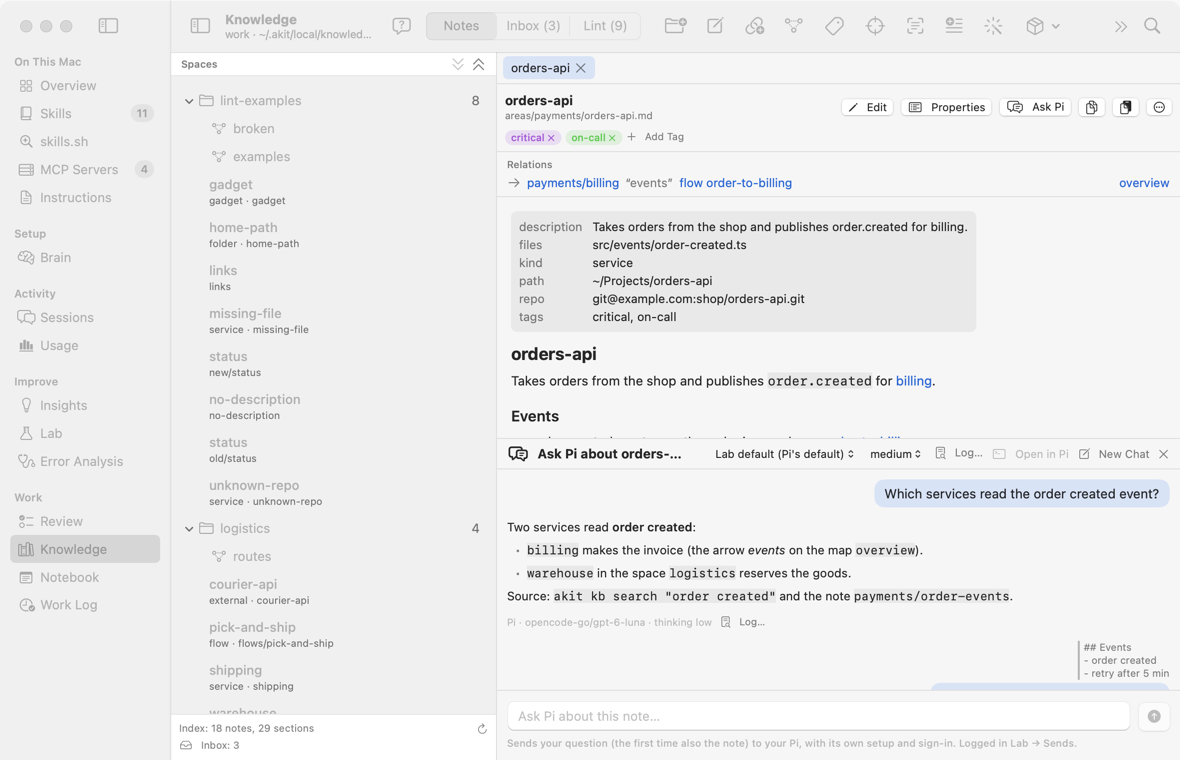
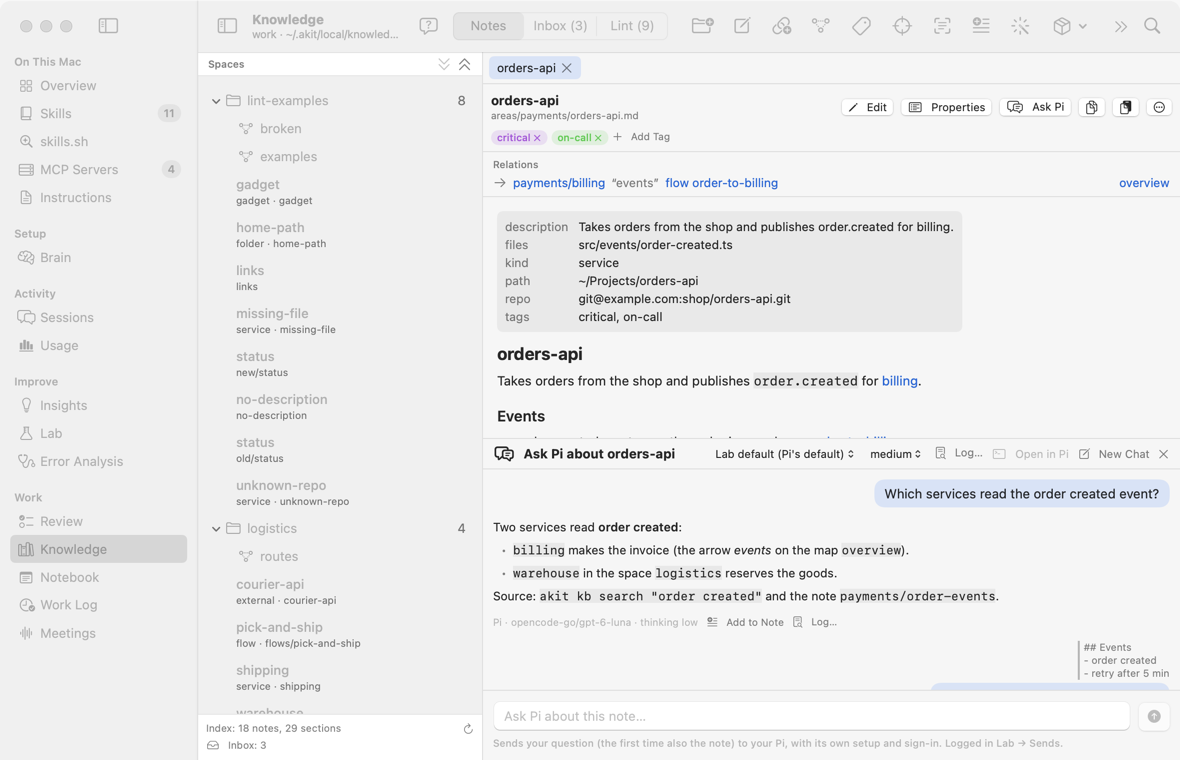
Add to Note: turn an Ask Pi answer into a note proposal
Each answer gets an Add to Note button. It sends Pi a fixed follow-up to
work that answer into the open note through akit kb propose, so the
change shows as a diff card to accept or reject.

diff --git a/AKit/Knowledge/KnowledgeAskPanel.swift b/AKit/Knowledge/KnowledgeAskPanel.swift
@@ -109,18 +109,21 @@ final class KnowledgeAskModel {
     }
 
     /// Sends the draft (and the passage) about the note: a new chat on the first question.
-    func send(noteText: String, cwd: URL) {
-        let question = draft.trimmingCharacters(in: .whitespacesAndNewlines)
+    /// `fixed` sends that question instead and leaves the draft and the passage alone (Add to Note).
+    func send(noteText: String, cwd: URL, fixed: String? = nil) {
+        let question = (fixed ?? draft).trimmingCharacters(in: .whitespacesAndNewlines)
         guard let note, !question.isEmpty, !isRunning else { return }
-        let passage = passage
+        let passage = fixed == nil ? passage : nil
         let agent = agent
         let env = HarnessEnvironment.current
         let scope = Cancellation.Scope()
         self.scope = scope
         let generation = generation
         (running, step, problem) = ((question, passage, generation), "Starting Pi…", nil)
-        draft = ""
-        self.passage = nil
+        if fixed == nil {
+            draft = ""
+            self.passage = nil
+        }
         Task {
             do {
                 let chat = try self.chat ?? KnowledgeAsk.newChat(note: note, cwd: cwd, env: env)
@@ -142,7 +145,7 @@ final class KnowledgeAskModel {
                     problem = error.localizedDescription
                     // Not sent (refused, not confirmed): the question goes back to the field. One
                     // Pi answered but AKit couldn't save stays out of it.
-                    if (error as? KnowledgeAsk.Failure)?.sent != true {
+                    if fixed == nil, (error as? KnowledgeAsk.Failure)?.sent != true {
                         if draft.isEmpty { draft = question }
                         if self.passage == nil { self.passage = passage }
                     }
@@ -463,6 +466,17 @@ struct KnowledgeAskPanel: View {
             Text(["Pi", entry.model ?? (entry.thinking != nil ? "Pi's default model" : "model not recorded"), entry.thinking.map { "thinking \($0)" }]
                     .compactMap(\.self).joined(separator: " · "))
                 .font(.caption).foregroundStyle(.tertiary)
+            if entry.answer?.isEmpty == false, let note = ask.note {
+                Button("Add to Note", systemImage: "text.badge.plus") {
+                    guard let cwd = model.askWorkingFolder() else { return }
+                    ask.send(noteText: model.text, cwd: cwd, fixed: KnowledgeAsk.addToNoteQuestion(entry, note: note))
+                }
+                .buttonStyle(.borderless)
+                .controlSize(.small)
+                .font(.caption)
+                .disabled(ask.isAskingHere || ask.isRunning)
+                .help("Pi works this answer into \(note.id) as a proposal: you see the diff here and Accept or Reject it")
+            }
             Button("Log…", systemImage: "doc.text.magnifyingglass") { logRequest = LogRequest(entry: entry.id) }
                 .buttonStyle(.borderless)
                 .controlSize(.small)

diff --git a/AKitCore/Sources/AKitLab/KnowledgeAsk.swift b/AKitCore/Sources/AKitLab/KnowledgeAsk.swift
@@ -240,6 +240,20 @@ public enum KnowledgeAsk {
         return text + "\n\nMy question: \(question)"
     }
 
+    /// The question of **Add to Note** under an answer: Pi works what that answer said into the
+    /// note as a proposal (K36). Pi has the answer in its thread through the fork; the start of
+    /// it is quoted so Pi finds the right one.
+    public static func addToNoteQuestion(_ entry: Entry, note: Note) -> String {
+        let answer = (entry.answer ?? "").trimmingCharacters(in: .whitespacesAndNewlines)
+        let start = answer.count > 160 ? String(answer.prefix(160)) + "…" : answer
+        return """
+            Add what your answer \(entry.id) said to the note \(note.id) ("\(start.replacingOccurrences(of: "\n", with: " "))"). \
+            Fit the new facts into the note's sections where they belong, in the note's own style and language: \
+            no copy of the answer, no chat words, nothing the note already says. Propose it with akit kb propose --note \(note.id) \
+            (only the changed ## sections), then say in one line what you proposed.
+            """
+    }
+
     /// The session file the next question forks: the last good answer's; nil for the first.
     /// Throws when that session file is gone.
     static func fork(_ chat: Chat, entries: [Entry]) throws(Failure) -> URL? {

diff --git a/AKitCore/Tests/AKitLabTests/KnowledgeAskTests.swift b/AKitCore/Tests/AKitLabTests/KnowledgeAskTests.swift
@@ -91,6 +91,17 @@ final class KnowledgeAskTests {
         #expect(next == "About this passage of the note payments/orders-api:\n\n> retry\n\nAnd this?")
     }
 
+    @Test func addToNoteAsksForAProposalIntoThisNote() {
+        var entry = KnowledgeAsk.Entry(id: "q2", question: "Who reads it?", asked: .now)
+        entry.answer = "Billing and\nwarehouse read it."
+        let question = KnowledgeAsk.addToNoteQuestion(entry, note: Self.note)
+        #expect(question.contains("answer q2") && question.contains("note payments/orders-api"))
+        #expect(question.contains("(\"Billing and warehouse read it.\")"))
+        #expect(question.contains("akit kb propose --note payments/orders-api"))
+        entry.answer = String(repeating: "a", count: 500)
+        #expect(KnowledgeAsk.addToNoteQuestion(entry, note: Self.note).contains(String(repeating: "a", count: 160) + "…\""))
+    }
+
     @Test func piKeepsTheUsersSetupButMayNotEditOrWrite() throws {
         let chat = try KnowledgeAsk.newChat(note: Self.note, cwd: home, env: env())
         let options = KnowledgeAsk.options(chat: chat, fork: nil, agent: Self.agent)

diff --git a/docs/design/README.md b/docs/design/README.md
@@ -60,7 +60,7 @@ change, change the setup. The sidebar groups follow it (Setup, Activity, Improve
 | [`ask-akit.md`](ask-akit.md) | What does this label, number or badge mean, and what do I do about it? | Toolbar → Ask AKit, Help → Ask AKit (⌥⌘/), right-click → Ask AKit About This | the core (`AKitHelp`: guide sections, prompt, answer, sources), the side panel with agent choice, Stop and New Chat, context menus (2026-10-14); the review round (2026-10-15): Stop ends the harness process, no session text (ids only, redaction backstop), checked links, first-send confirmation and What Was Sent; the AKit Terms glossary guide; the second review (2026-10-15): neutral names for emergent modes and session tasks, whole-word redaction, `systemCharacters` in the send log, a cancellable account check, consent per destination with Settings → Ask before Ask AKit sends | saved chats; About This on the batch difference grid and a few pane lists |
 | [`review.md`](review.md) | How does an agent review a GitLab merge request without writing anything the user didn't approve? | (being built) Review screen (a run: Overview with the flow, Requests and Map), Roles and Scenarios; `akit review`, `akit review post`; guide `review.ru.md` | step 1 (2026-10-15): `AKitReview`, profiles and the three levels, Gather into a context pack, `akit review` up to `run.json`; step 2: the passes in one Pi session, `akit-review.ts`, the cap and the send log; step 3: requests, the Review screen, Send Drafts…, `akit review post`; step 4: reruns, Discuss in Pi…; step 5: Roles, Scenarios, Quality, the guide; a security review round; the MCP change (2026-10-15): no tokens or REST in AKit, Pi's MCP servers through a guarded fetch pass and send pass, `akit review check`; local review of a git workspace (2026-10-16): New Review… → Local Workspace, `akit review local`; context for a run (2026-10-22, issue #1): notes, links read through MCP into `context/links.md`, read-only context servers (`mcp: extra_servers`, New Review… → Extra servers, Review Settings… → Context server), `--note`, `--link`, `--extra-server`; the audit round (2026-10-22): no tool name in posted text (only 🤖), the fingerprint without the title, AC rows outside the role limit, `bug-hunter` in Feature; Pi steps and flags (2026-10-22): the user's subagents, prompt templates and skills as passes after the roles, extra Pi flags, `akit review pi`, New Review… → Pi steps with suggestions; checks without a model (2026-10-22): the quote in the file, no repeat of a person's open thread, inline only on changed lines, a secret scan, `max_changed_lines`; practices of Anthropic, OpenAI and Uber (2026-10-23, R20–R34): built-in rules and a TS/React rule set, every Pi MCP server in the passes under a stricter policy, findings from before the MR kept out of GitLab, Anthropic's confidence scale, a required verifier model, 5 inline (3 medium), a question before the passes (draft, red pipeline, same commit), history with blame and earlier threads, the `history` role, a Security scenario, self-review limits, a private risk map, reruns on what a push changed, outcomes of the threads, an eval set; R35 (2026-10-23): comments in Czech, `posting: language` default `cs`, Send refuses text that isn't Czech; R36: live log under the status bar, Log… and `akit review log`, model lists, required fields marked, an empty fetch that says why; R37: limits only alert, 600 credits / 6000 lines; R38: `tool_search` for deferred MCP servers; R39: the work item only from the branch (`COL-123`), a code-only review without one; R40–R41 (2026-10-24, part a of the change map): the brief's boundaries (`akit_submit_boundaries`, kept when quoted in a changed file), `map.json` with modules, TS/JS imports and dependents, `akit review map`; R42–R44 (part b): the `impact` pass, uses in other GitLab repositories through the GitLab MCP server (`akit_submit_consumers`, kept when quoted in GitLab's answer), `consumers.json`, `context/consumers.md`, the contracts role on kept uses, `impact: auto|off|always`, `--impact`; R45–R48 (part d): the brief's overview (`akit_submit_overview`, `overview.json`: 3–5 points, modules of changed files, the why's sources, a checked Mermaid flow with the other repositories added), `summary_language` and `--summary-language`, `akit review overview`, the work item chain up to the epic in `work-items.md`; part (c) (2026-10-24): the app's Overview with the flow drawn by mermaid.js 11.4.1 shipped offline in a locked-down web view, the Map tab (three lanes, lines, inspector, Copy as Mermaid), Other repositories and Summary language in New Review… and Review Settings…, the guide's Overview and Map part; finding the points (2026-10-24): Find… next to Base and a new Head in New Review… → Local Workspace, `akit review points --find`, `akit review local --head`; linked merge requests and from commit (2026-10-25, R49–R52): one review of several merge requests in New Review… → Merge requests and `akit review URL URL…`, drafts in each one's own merge request, `URL@COMMIT` reports only on lines after a commit; debugging a run (2026-10-28, R53): Debug… with AKit's checks and Pi's analysis of the process, Copy Full Log, `akit review debug`, `akit review log --full`; roles and configuration from the terminal (2026-10-28, issue #3): `akit review roles`, `akit review role|scenario new|save|duplicate|reset`, `defaults`, `profile`, in the `/akit` skill; Write with AI… on Roles and `akit review role write` (Pi drafts a role with a writing skill you pick); log details (arguments, answers, thinking, findings) in the live log and Log…, recall-first roles with a severity on every finding and checks of names, placement and separation of concerns, comments and summaries drawn as Markdown (2026-10-30); Delete… for roles and scenarios with what is bound to them, skills linked from roles and scenarios, Write with AI… for scenarios (2026-10-30, R54–R56); AKit's own clone with an `akit-review/<run>` branch per run removed on Delete, setup commands (profile `setup:`, New Review…, `--setup`), git before MCP (the diff, the merge base and the earlier merge requests from the clone), test files and attachments in the pack (2026-11-01, R57–R60); Why Missed? on an item of Add Missed…: AKit's trace and Pi's cause and fix, with a follow-up chat, `akit review why-missed` (2026-11-02, R62); a scenario's roles without YAML: the Roles box in Scenarios, Add to Scenario in Roles, `akit review scenario add-role|remove-role|move-role`, `review-<id>` accepted (2026-11-02, R63); acceptance criteria taken from the work item's text, comments and parents, and no diff versions asked with a clone (2026-11-02, R64); a new run of a merge request takes the earlier run's worktree and pulls it, or resets it to origin when the pull fails (2026-11-02, R65); a GitLab MCP server without draft notes publishes the approved comments at once after Publish Now… (`save_merge_request_review`, `akit review post --publish`), and a skipped request shows Pi's reason (2026-11-02, R66) | step 0 (facts on the work Mac), running the eval set through Lab |
 | [`translate.md`](translate.md) | How do I read a review, notes or an answer in another language? | Translate menu on Lab reviews, session notes, Review runs and Ask AKit answers; Settings → Translation model; `akit translate` | GitHub issue #2 (2026-10-22): 17 languages and Show Original, one call per output through the sending policy, a cache next to the output, the translation model setting | mode texts, reports and fix drafts |
-| [`knowledge.md`](knowledge.md) | How does the agent learn the system around a repository: which service talks to which, and where the text about it lies? | (being built) Knowledge screen: spaces, notes, maps (view and Edit), note panel with Properties and Checks, Kinds…, Area Settings…, Focus…, Preview Agent Context…, Pi Template…, Draw Map with Pi…, Add Folder…, the search field, the Inbox and Lint tabs; Settings → Knowledge; `akit kb areas`, `notes`, `kinds`, `area`, `maps`, `relations`, `search`, `show`, `index`, `neighbors`, `context`, `focus`, `lint`, `inbox`, `check`, `propose`, `set`, `init`, `new-note`, `add-folder`, `new-map`, `rename`, `path`, `rm`, `seed`, `pi-template`, `accept`, `reject`, `check-model`; Settings → Knowledge check model; Sample Base menu; guide `knowledge.ru.md` | designed 2026-10-24 by grilling, K1–K20; step 1 (2026-10-24): the base folder and git without a remote, notes and links, the Knowledge screen (spaces, notes, Edit, Copy, Paste, Open in Obsidian, New Area…, New Note…, Delete…), the commit queue (tab close, 5 min, quit, rebuild); kinds and fields as data in `kb.yaml`, note properties, `area.yaml` (K24); the base folder per world in `bases.json`, like a folder in an Obsidian vault (K25); a sample base with made-up notes that shows every feature, and `kb rm` (K26); step 2 so far: Excalidraw bundled offline, maps read into a graph, the map view (a click on a block opens its note), map editing with checked saves, Changed on disk, New Map… and Delete…, map tabs, drag a note onto a map, Relations, Rename… and `kb rename` (step 2 done); step 3: the search index in the base (`.akit-index.sqlite`, FTS5 over `##` sections, edges from the maps, refreshed before each read), `kb search`, `show`, `index`, the miss log; focus of a project (`focus.json`, `area.yaml` projects, notes' `repo:`), `kb neighbors`, `kb context` (the agent's card, ≤ 4000 tokens), `kb focus`; the search field with hits by section, the index line with Reindex, watching the base folder (outside edits reindexed and committed, Changed on disk for an open note), Focus… and Preview Agent Context…; the Pi template (`kb-pi.md` in the core layer for Pi only, `kb pi-template`, Pi Template…) (step 3 done); step 4: lint (`kb lint`, the Lint tab, Checks and grey links; the seed area lint-examples) (step 4 done); step 5 so far: proposals in `inbox/` (`kb propose` for agents, `kb inbox`, person-only `kb accept` with a diff, a backup and one commit, `kb reject` to the Trash; a new area on Accept; seed proposals); the check model (`kb check` through Pi under the sending policy, Settings → Knowledge check model, marks only); the Inbox tab (the proposals with checks and marks, the diff, Accept…, Reject…, Check Again, an arrow drawn on its map with "Add an arrow?", the badge Inbox (N)); maps drawn by an agent with excalidraw-cli (`kb propose --map`, the draft's preview, Accept… links its blocks to notes and saves it, Draw Map with Pi…) (step 5 done); step 6: AKit Review's knowledge card (`context/knowledge-card.md`: the systems a change touches, their relations and neighbours, within `knowledge_budget`; profile `knowledge_base:`, Review Settings… → Knowledge base, `akit review --knowledge-base`, `--knowledge-budget`) and the review passes' `akit_kb_search` / `akit_kb_show` (step 6 done; steps 1–6 built); K27 (2026-10-25): notes for other repositories and local folders (`path:`, kind `folder`, `local` in `kb show` / `kb context`, Add Folder…, `kb add-folder`); K29 (2026-10-31): one note list column with foldable spaces, Hide Note List; K30 (2026-10-31): Ask Pi about a note (a chat with the user's own Pi under the note, Open in Pi); K31 (2026-10-31): the order of the spaces in `.spaces.json`, by drag or Move Up / Move Down; K32 (2026-10-31): Pi proposes base changes from Ask Pi, approved in the chat or the Inbox; K33: review fixes (script quoting, work-Mac code rule, JSON-masked streams, drag order); K34: Ask Pi Log… (how Pi was called, its steps) and Thinking per model; K35 (2026-11-02): Collapse All / Expand All, note tags (`tags:` badges with Add Tag) | step 7 (embeddings) waits for about two weeks of use, then 7.0 decides |
+| [`knowledge.md`](knowledge.md) | How does the agent learn the system around a repository: which service talks to which, and where the text about it lies? | (being built) Knowledge screen: spaces, notes, maps (view and Edit), note panel with Properties and Checks, Kinds…, Area Settings…, Focus…, Preview Agent Context…, Pi Template…, Draw Map with Pi…, Add Folder…, the search field, the Inbox and Lint tabs; Settings → Knowledge; `akit kb areas`, `notes`, `kinds`, `area`, `maps`, `relations`, `search`, `show`, `index`, `neighbors`, `context`, `focus`, `lint`, `inbox`, `check`, `propose`, `set`, `init`, `new-note`, `add-folder`, `new-map`, `rename`, `path`, `rm`, `seed`, `pi-template`, `accept`, `reject`, `check-model`; Settings → Knowledge check model; Sample Base menu; guide `knowledge.ru.md` | designed 2026-10-24 by grilling, K1–K20; step 1 (2026-10-24): the base folder and git without a remote, notes and links, the Knowledge screen (spaces, notes, Edit, Copy, Paste, Open in Obsidian, New Area…, New Note…, Delete…), the commit queue (tab close, 5 min, quit, rebuild); kinds and fields as data in `kb.yaml`, note properties, `area.yaml` (K24); the base folder per world in `bases.json`, like a folder in an Obsidian vault (K25); a sample base with made-up notes that shows every feature, and `kb rm` (K26); step 2 so far: Excalidraw bundled offline, maps read into a graph, the map view (a click on a block opens its note), map editing with checked saves, Changed on disk, New Map… and Delete…, map tabs, drag a note onto a map, Relations, Rename… and `kb rename` (step 2 done); step 3: the search index in the base (`.akit-index.sqlite`, FTS5 over `##` sections, edges from the maps, refreshed before each read), `kb search`, `show`, `index`, the miss log; focus of a project (`focus.json`, `area.yaml` projects, notes' `repo:`), `kb neighbors`, `kb context` (the agent's card, ≤ 4000 tokens), `kb focus`; the search field with hits by section, the index line with Reindex, watching the base folder (outside edits reindexed and committed, Changed on disk for an open note), Focus… and Preview Agent Context…; the Pi template (`kb-pi.md` in the core layer for Pi only, `kb pi-template`, Pi Template…) (step 3 done); step 4: lint (`kb lint`, the Lint tab, Checks and grey links; the seed area lint-examples) (step 4 done); step 5 so far: proposals in `inbox/` (`kb propose` for agents, `kb inbox`, person-only `kb accept` with a diff, a backup and one commit, `kb reject` to the Trash; a new area on Accept; seed proposals); the check model (`kb check` through Pi under the sending policy, Settings → Knowledge check model, marks only); the Inbox tab (the proposals with checks and marks, the diff, Accept…, Reject…, Check Again, an arrow drawn on its map with "Add an arrow?", the badge Inbox (N)); maps drawn by an agent with excalidraw-cli (`kb propose --map`, the draft's preview, Accept… links its blocks to notes and saves it, Draw Map with Pi…) (step 5 done); step 6: AKit Review's knowledge card (`context/knowledge-card.md`: the systems a change touches, their relations and neighbours, within `knowledge_budget`; profile `knowledge_base:`, Review Settings… → Knowledge base, `akit review --knowledge-base`, `--knowledge-budget`) and the review passes' `akit_kb_search` / `akit_kb_show` (step 6 done; steps 1–6 built); K27 (2026-10-25): notes for other repositories and local folders (`path:`, kind `folder`, `local` in `kb show` / `kb context`, Add Folder…, `kb add-folder`); K29 (2026-10-31): one note list column with foldable spaces, Hide Note List; K30 (2026-10-31): Ask Pi about a note (a chat with the user's own Pi under the note, Open in Pi); K31 (2026-10-31): the order of the spaces in `.spaces.json`, by drag or Move Up / Move Down; K32 (2026-10-31): Pi proposes base changes from Ask Pi, approved in the chat or the Inbox; K33: review fixes (script quoting, work-Mac code rule, JSON-masked streams, drag order); K34: Ask Pi Log… (how Pi was called, its steps) and Thinking per model; K35 (2026-11-02): Collapse All / Expand All, note tags (`tags:` badges with Add Tag); K36 (2026-11-07): Add to Note under an Ask Pi answer (a proposal into the open note) | step 7 (embeddings) waits for about two weeks of use, then 7.0 decides |
 | [`notebook.md`](notebook.md) | Where do I keep short notes, plans, to-dos and what I did today, pleasant to read and in plain Markdown? | Work → Notebook: own tabs, check boxes, pasted images, links, Today; `akit notebook`; guide `notebook.ru.md` | built 2026-10-25 (steps 0–3), NB1–NB9: files in the knowledge base's `notebook/`, Milkdown Crepe bundled offline | broken `[[links]]` greyed, unused images in Lint, a tab per project |
 | [`worklog.md`](worklog.md) | What did I do today, and how long did each kind of work take? | Work → Work Log: kind buttons, entry field (⌘L), days with time per kind, Edit…, Again Now; the Auto-Fill tab; `akit://worklog` links; `akit worklog`, `akit worklog fill`; guide `worklog.ru.md` | built 2026-10-28, W1–W8: one file per day in the knowledge base's `worklog/`, entries stamped with the day and time; Auto-Fill rebuilds a day from the prompts in 15/30-minute slots with branch and ticket, through a Pi model (GPT-6 Luna by default); W9: a 2–3 sentence summary per entry as an accordion, the Thinking setting; W11–W14 (2026-11-06): Calendar tab with blocks and Import from Calendar, work-day norm, Report tab with CSV | ticket titles through Pi's GitLab MCP; a menu bar item or global hotkey, custom presets; sending the report |
 | [`meetings.md`](meetings.md) | Can a click record a call or a talk and give me the text, a summary and the tasks, for a few dollars a month? | Work → Meetings and `Meetings.app`: Record/Stop, mic + system tap in 5-minute pieces, OpenRouter (models from its API, Gemini Flash-Lite by default), Summary / Transcript / own Markdown tabs, `~/Meetings`; guide `meetings.ru.md` | built 2026-11-06 (v2026.11.06-2), M1–M20, own package `Meetings/` (no AKitCore); checked on real recordings; `akit://meetings/toggle` for a hotkey; two tracks where voices overlap; M22–M25 (2026-11-06): templates + clean text, search + tags, Ask + Similar, tasks → Notebook, line → Work Log, facts → knowledge Inbox; local mode M26–M28 (whisper.cpp at background priority, Pause/Stop, heat pause, summary by Pi); M33 (2026-11-07): Import Audio… and drop of audio/video files from other apps | real model runs of Ask and Propose to Knowledge; global hotkey; `:batch` models |

diff --git a/docs/design/knowledge.md b/docs/design/knowledge.md
@@ -78,6 +78,7 @@ describe the system once, by hand, and let the agent read it.
 | K33 | Ask Pi review fixes | 2026-10-31, after a review of K29–K32: Open in Pi's script prints the note id with `printf '%s\n'` and a quoted argument (no id in a comment), so a hostile file name runs nothing. On a work Mac, when Pi runs in a space's project folder (not the base folder), the destination must also pass `.code(.pi)` (the allowed list): the project's code could reach it; else nothing is sent and the message says to pick an allowed provider. Every Ask Pi that started Pi is in the send log (also stopped or timed out), with the system prompt counted. Pi's streams are masked as JSON (`JSONMask`, moved down from `ReviewMask`), and Review and Ask Pi share one Pi runner (`PiJSONStream.run`). The panel puts a refused question back only into the chat it was asked in, and a title change of the open note doesn't stop Pi. A space dragged down goes after the one it is dropped on (`move(space:onto:)`), `.spaces.json` is written inside the base's git lock, a space deleted while the order can't be written is still committed (the message says so), and fold state of spaces that are gone isn't saved. Round 2: proposal ids are reused once a proposal leaves `inbox/`, so an answer stores each proposal as `{id, created}` (old plain ids still read); a card binds only to the inbox file with that `created`, and counts it accepted only by the oldest accept commit at or after `created` and before the chat's next proposal with that id (`state(ofProposal:created:before:)`). An answer's proposals are only the `inbox/<id>.md` paths printed by its own `bash` calls that ran `kb propose` (matched by call id), and new since the question (a plain file listing, no checks). The base folder in the system prompt is shell-quoted. A space's deletion writes the order under the git lock. A question still stopping in a chat you left shows only there |
 | K34 | Ask Pi log and thinking | Added 2026-10-31 at the user's request. **Log…** under each answer, and in the panel header for the whole chat, opens **Ask Pi Log**: how Pi was called and what it did. Each question writes `streams/qN.call.json` (masked): the arguments as run (the last one the prompt sent), working folder, model, thinking, fork and session files, start, end, exit status, error, usage, and when each tool call started and ended (noted as the stream's lines arrive). `KnowledgeAskLog` (AKitLab) reads the saved stream into steps: tool calls (start and end matched by `toolCallId`, else by tool name, else order) with arguments, result, error and time; the assistant's text and thinking; a model error. Copy Full Log (plain, masked, uncut), Show in Finder (the chat folder), Open Stream. Answers saved before show their stream without a call record. A **Thinking** picker beside Model passes `--thinking`; the level is remembered per model (`knowledgeAsk.thinkingByModel`), a model never used gets Lab's default Pi level (else `medium`). Each answer stores its model and thinking (shown under it). After review: what Pi read from a file that usually holds secrets (`SecretFilter.isSecretFile`: `.env`, `auth.json`, Pi's `mcp.json`…) is hidden as the session viewers do (`PiSecretFiles`), before the stream reaches the disk and again when it is read; `JSONMask` masks a value whose key names a secret (api key, token, secret, password, credential, authorization, cookie), in Review too. Tool times are kept by `toolCallId`; an end with no start is its own step; results are kept up to 200,000 characters in the sheet (Copy Full Log rereads them whole, off the main thread); a question never overwrites the files of one whose entry wasn't saved. After verification: every result shape of a secret call (a `toolResult` message with its `details.truncation` copy and `structuredContent` path, `turn_end.toolResults[]`, `agent_end.messages[]`, updates) keeps only role, call id, tool name, error flag, time and a hidden marker; a result without a call id follows the tool's last call without one; `SecretFilter` also counts globs that can name a secret file (`.e*`, `auth.*`, as the shell expands them) and an adapter's inner `args`/`arguments`. Pi's own session files in the chat's `sessions/` hold the raw tool output, like any Pi session in `~/.pi`; AKit shows only their path |
 | K35 | Collapse All and note tags | Added 2026-11-02 at the user's request. Over the note list a **Spaces** strip with **Expand All** and **Collapse All** (⌥⌘←); the same two in a space's context menu. **Tags**: free-text badges on a note, kept as `tags: [a, b]` in its frontmatter (Obsidian's property; a string split at commas and spaces is read too; `#` dropped, spaces become `-`). A tag's color is a stable hash of its lowercased text (FNV-1a, 10 colors), so it is the same on every note and Mac. **Add Tag** under the note's title suggests the base's tags (most used first, then those containing the typed text); a tag another note has keeps its spelling. Tags show in the note list under each note and in `kb notes --json` (`tags`); Properties leaves `tags` to the badges |
+| K36 | Add to Note | Added 2026-11-07 at the user's request: **Add to Note** under each Ask Pi answer sends Pi a fixed follow-up (`KnowledgeAsk.addToNoteQuestion`): work what answer qN said into the open note, in its sections, style and language, no copy of the answer and nothing the note already says, as `akit kb propose --note <id>`; the card with the diff shows under the new answer as in K32. The question names the answer by id and quotes its first 160 characters; Pi has the answer through the fork. The user's draft and passage stay. Pi keeps its whole setup (MCP, skills, extensions, context files); only `edit,write` stay excluded |
 
 ## Layout
 
